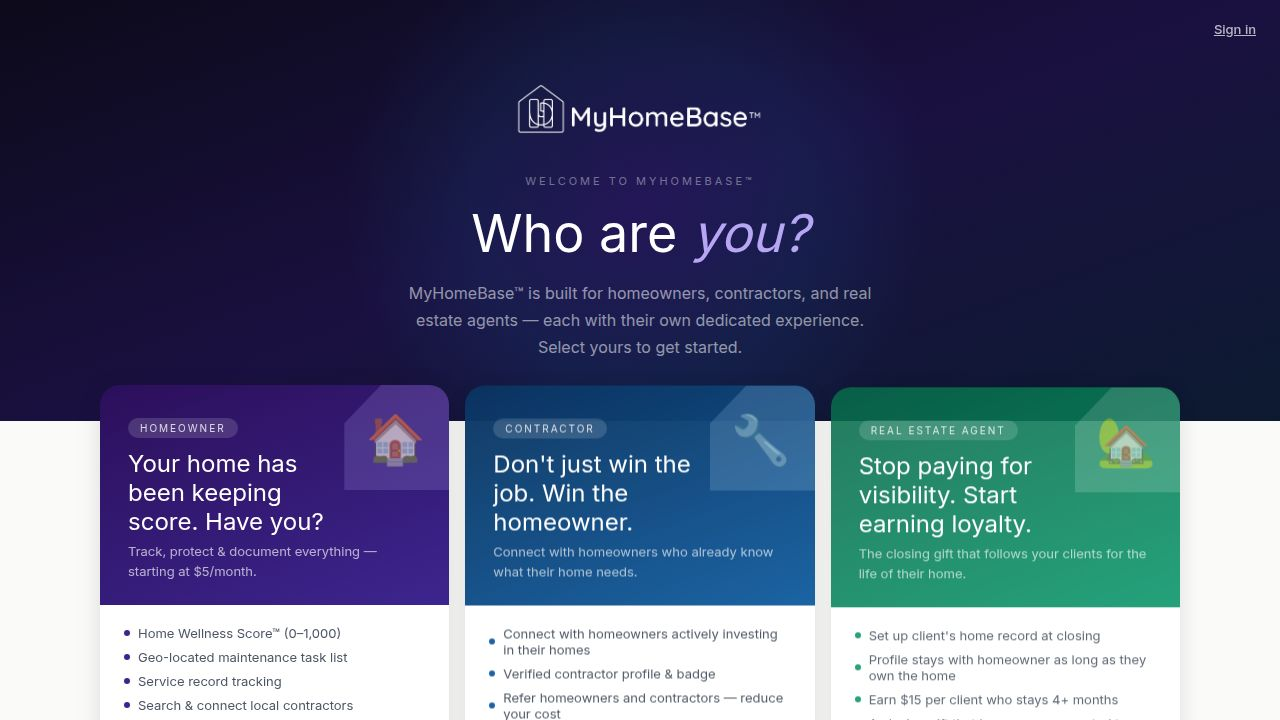
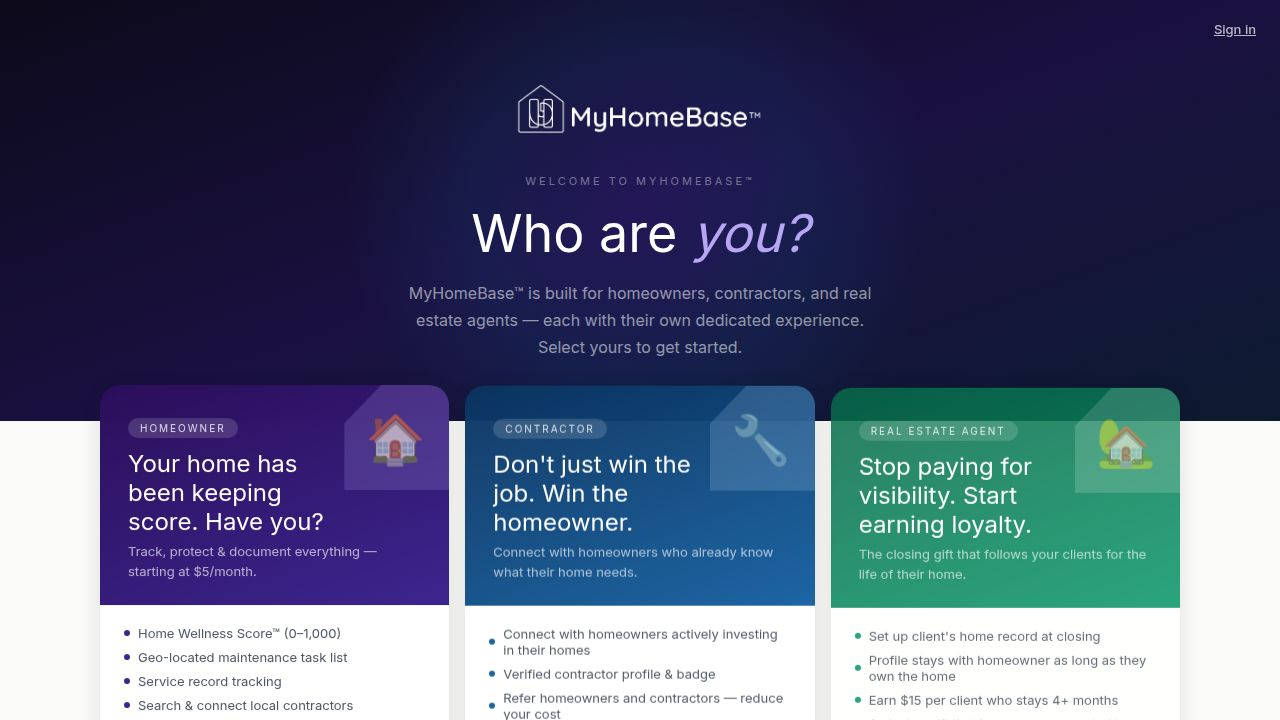
task-605: Prevent contractor from getting stuck if Stripe checkout fails
## What changed

### contractor-checkout.tsx
- Replaced the silent toast-and-redirect-on-error pattern with a proper
  in-page error state using React state (`checkoutError`)
- Error screen shows: warning icon, clear "Checkout didn't load" heading,
  human-readable explanation, and two action buttons:
    - "Try again" (data-testid="button-retry-checkout") — re-fires the
      mutation directly without a page reload, shows spinner while retrying
    - "View pricing plans" — navigates to /contractor-pricing as an escape
  hatch
- On error, fires a best-effort POST to /api/contractor/resend-checkout-email
  (swallowed silently so it never blocks the UI)
- Removed useToast import (no longer needed for the error path)

### email-service.ts
- Added `sendCheckoutFailureEmail(userId, userName, plan, checkoutUrl)`
  following the existing wrapEmailContent/getEmailHeader pattern
- Email subject: "Complete your HomeBase contractor setup"
- Body: explains what happened, shows plan + trial terms, includes a CTA
  button linking directly back to the contractor checkout page

### routes.ts
- Added `POST /api/contractor/resend-checkout-email` (authenticated)
  - Looks up the user from session, derives checkout URL from request origin
  - Calls sendCheckoutFailureEmail in a non-blocking .catch() so failures
    don't return a 5xx to the client
  - Returns { sent: true } immediately
- Added sendCheckoutFailureEmail to the import from email-service
[…]

diff --git a/artifacts/myhomebase/src/pages/contractor-checkout.tsx b/artifacts/myhomebase/src/pages/contractor-checkout.tsx
@@ -1,19 +1,18 @@
-import { useEffect } from "react";
+import { useState, useEffect } from "react";
 import { useLocation } from "wouter";
 import { useMutation } from "@tanstack/react-query";
 import { useAuth } from "@/hooks/useAuth";
 import { apiRequest } from "@/lib/queryClient";
 import { openPaymentUrl } from "@/lib/nativeBrowser";
-import { useToast } from "@/hooks/use-toast";
-import { Loader2 } from "lucide-react";
+import { Loader2, AlertTriangle, RefreshCw } from "lucide-react";
+import { Button } from "@/components/ui/button";
 
 export default function ContractorCheckout() {
   const { user } = useAuth();
   const [, setLocation] = useLocation();
-  const { toast } = useToast();
+  const [checkoutError, setCheckoutError] = useState<string | null>(null);
   const urlParams = new URLSearchParams(window.location.search);
   const plan = urlParams.get("plan") ?? "basic";
-  // trialMode = true for new users (inactive, never subscribed) or when explicitly flagged
   const typedUser = user as { subscriptionStatus?: string; stripeCustomerId?: string } | undefined;
   const trialMode =
     urlParams.get("trial") === "true" ||
@@ -22,6 +21,7 @@ export default function ContractorCheckout() {
 
   const checkoutMutation = useMutation({
     mutationFn: async () => {
+      setCheckoutError(null);
       const res = await apiRequest("/api/create-subscription-checkout", "POST", { plan, trialMode });
       return res.json();
     },
@@ -33,12 +33,8 @@ export default function ContractorCheckout() {
       }
     },
     onError: (error: Error) => {
-      toast({
-        title: "Checkout Error",
-        description: error.message || "Failed to start checkout. Please try again.",
-        variant: "destructive",
-      });
-      setLocation("/contractor-pricing");
+      setCheckoutError(error.message || "Failed to start checkout. Please try again.");
+      apiRequest("/api/contractor/resend-checkout-email", "POST", { plan }).catch(() => {});
     },
   });
 
@@ -47,6 +43,43 @@ export default function ContractorCheckout() {
       checkoutMutation.mutate();
     }
   }, [user]);
+
+  if (checkoutError) {
+    return (
+      <div className="min-h-screen flex flex-col items-center justify-center gap-6 px-4 text-center">
+        <div className="p-4 rounded-full bg-red-100">
+          <AlertTriangle className="h-10 w-10 text-red-500" />
+        </div>
+        <div className="space-y-2 max-w-sm">
+          <h1 className="text-xl font-bold text-gray-900">Checkout didn't load</h1>
+          <p className="text-gray-600 text-sm">
+            We couldn't start your checkout session. This is usually a temporary issue — please try again.
+            If the problem continues, check your connection or try a different browser.
+          </p>
+        </div>
+        <div className="flex flex-col sm:flex-row gap-3">
+          <Button
+            onClick={() => checkoutMutation.mutate()}
+            disabled={checkoutMutation.isPending}
+            style={{ background: "linear-gradient(135deg, var(--theme-gradient-start) 0%, var(--theme-gradient-end) 100%)" }}
+            data-testid="button-retry-checkout"
+          >
+            {checkoutMutation.isPending ? (
+              <><Loader2 className="h-4 w-4 mr-2 animate-spin" />Retrying…</>
+            ) : (
+              <><RefreshCw className="h-4 w-4 mr-2" />Try again</>
+            )}
+          </Button>
+          <Button variant="outline" onClick={() => setLocation("/contractor-pricing")}>
+            View pricing plans
+          </Button>
+        </div>
+        <p className="text-xs text-gray-400">
+          We've sent you an email with a link to complete your setup when you're ready.
+        </p>
+      </div>
+    );
+  }
 
   return (
     <div className="min-h-screen flex flex-col items-center justify-center gap-4">

diff --git a/artifacts/api-server/src/email-service.ts b/artifacts/api-server/src/email-service.ts
@@ -1702,6 +1702,44 @@ export async function sendOnboardingNudgeEmail(userId: string, userName: string)
   });
 }
 
+export async function sendCheckoutFailureEmail(
+  userId: string,
+  userName: string,
+  plan: string,
+  checkoutUrl: string
+): Promise<boolean> {
+  const user = await storage.getUser(userId);
+  if (!user?.email) return false;
+
+  const planDisplay =
+    plan === 'pro'
+      ? 'Contractor Pro ($40/month)'
+      : 'Contractor Basic ($20/month)';
+
+  const html = wrapEmailContent(
+    getEmailHeader('Complete Your Setup'),
+    `
+      <p>Hi ${userName || 'there'},</p>
+      <p>It looks like your checkout session didn't complete. No worries — your account is ready and waiting. You can pick up right where you left off.</p>
+      <p>You were signing up for <strong>${planDisplay}</strong> with a 14-day free trial. Your card won't be charged for 14 days — cancel anytime before then and you owe nothing.</p>
+      <div style="text-align: center; margin: 30px 0;">
+        <a href="${checkoutUrl}" style="background: #6B46C1; color: white; padding: 15px 30px; text-decoration: none; border-radius: 8px; font-weight: bold;">Complete Your Setup →</a>
+      </div>
+      <p>Questions? Email us at <a href="mailto:[email redacted]">[email redacted]</a> and we'll get you sorted.</p>
+      <p>- The HomeBase Team</p>
+    `
+  );
+
+  const text = `Hi ${userName || 'there'}, your checkout didn't complete. Visit ${checkoutUrl} to finish setting up your ${planDisplay} subscription with a 14-day free trial. Questions? Email [email redacted].`;
+
+  return sendEmail({
+    to: user.email,
+    subject: 'Complete your HomeBase contractor setup',
+    text,
+    html,
+  });
+}
+
 export const emailService = {
   sendEmail,
   sendWelcomeEmail,

diff --git a/artifacts/myhomebase/src/components/contractor-feature-gate.tsx b/artifacts/myhomebase/src/components/contractor-feature-gate.tsx
@@ -181,6 +181,7 @@ export function ContractorCRMUpgradePage() {
   const [, setLocation] = useLocation();
   const { currentPlan } = useContractorSubscription();
   const { user } = useAuth();
+  const typedUser = user as { subscriptionStatus?: string; stripeCustomerId?: string } | undefined;
   const { toast } = useToast();
   const queryClient = useQueryClient();
   const [isPurchasing, setIsPurchasing] = useState(false);
@@ -276,7 +277,40 @@ export function ContractorCRMUpgradePage() {
     { icon: <BarChart3 className="h-5 w-5" />, title: 'Analytics Dashboard', description: 'Track revenue, jobs, and business growth' },
   ];
 
+  const needsCheckout =
+    typedUser?.subscriptionStatus === 'inactive' &&
+    !typedUser?.stripeCustomerId;
+
   return (
+    <div>
+      {needsCheckout && (
+        <div
+          className="sticky top-0 z-50 w-full px-4 py-3"
+          style={{ background: 'linear-gradient(135deg, #0C3460 0%, #1560A2 100%)' }}
+          data-testid="banner-complete-setup"
+        >
+          <div className="max-w-4xl mx-auto flex items-center justify-between flex-wrap gap-3">
+            <div className="flex items-center gap-3 text-white">
+              <div className="p-1.5 rounded-full bg-white/10 flex-shrink-0">
+                <Rocket className="h-4 w-4" />
+              </div>
+              <div>
+                <span className="font-semibold text-sm sm:text-base">Your account is ready — complete your setup to get started</span>
+                <span className="hidden sm:inline ml-2 text-sm opacity-80">· 14-day free trial, no charge today</span>
+              </div>
+            </div>
+            <Button
+              size="sm"
+              className="bg-white font-semibold hover:bg-gray-100 flex-shrink-0"
+              style={{ color: '#0C3460' }}
+              onClick={() => setLocation('/contractor/checkout?plan=basic&onboarding=true')}
+              data-testid="button-complete-setup"
+            >
+              Complete Setup →
+            </Button>
+          </div>
+        </div>
+      )}
     <div className="container mx-auto px-4 py-8 max-w-4xl">
       <div className="text-center mb-8">
         <Badge className="mb-4" style={{ background: 'var(--theme-fill)', color: 'var(--theme-accent)' }}>
@@ -476,6 +510,7 @@ export function ContractorCRMUpgradePage() {
           </Button>
         </div>
       )}
+    </div>
     </div>
   );
 }

diff --git a/artifacts/api-server/src/routes/routes.ts b/artifacts/api-server/src/routes/routes.ts
@@ -26,7 +26,7 @@ import { geocodeAddress, calculateDistance } from "../geocoding-service";
 import { auditLogger, sessionManager, AuditEventTypes } from "../security-audit";
 import { smsService } from "../sms-service";
 import { notificationOrchestrator } from "../notification-orchestrator";
-import { sendEmail, emailService } from "../email-service";
+import { sendEmail, emailService, sendCheckoutFailureEmail } from "../email-service";
 import { verifyAndActivateAppleTransaction, handleAppleServerNotification, AppleIapError } from "../apple-iap";
 
 const stripe = process.env.STRIPE_SECRET_KEY 
@@ -14918,6 +14918,29 @@ Respond with ONLY the message text. No subject line, no greeting prefix like "He
     } catch (error) {
       console.error('Error fetching contractor subscription:', error);
       res.status(500).json({ message: 'Failed to fetch subscription' });
+    }
+  });
+
+  // Send checkout failure recovery email so contractors can retry from their inbox
+  app.post('/api/contractor/resend-checkout-email', isAuthenticated, async (req: any, res: any) => {
+    try {
+      const userId = req.session.user.id;
+      const user = await storage.getUser(userId);
+      if (!user) return res.status(404).json({ message: 'User not found' });
+
+      const plan = (req.body.plan as string) ?? 'basic';
+      const baseUrl = (req.headers.origin as string) || `https://${req.headers.host}`;
+      const checkoutUrl = `${baseUrl}/contractor/checkout?plan=${plan}&onboarding=true`;
+      const userName = `${user.firstName ?? ''} ${user.lastName ?? ''}`.trim() || user.email || 'there';
+
+      sendCheckoutFailureEmail(userId, userName, plan, checkoutUrl).catch((err) => {
+        req.log.warn({ err }, 'checkout-failure email send failed (non-fatal)');
+      });
+
+      return res.json({ sent: true });
+    } catch (error: any) {
+      req.log.error({ err: error }, 'Failed to dispatch checkout failure email');
+      return res.status(500).json({ message: 'Failed to send email' });
     }
   });
 